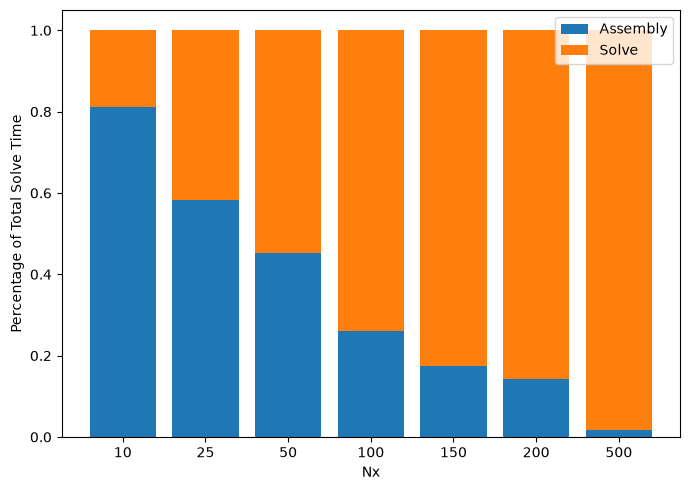
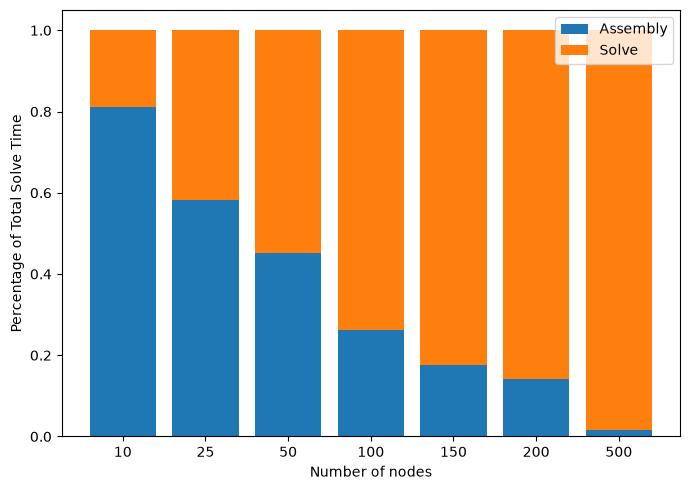
fixed a typo in an axis label

diff --git a/Scripts/profile_Processor.py b/Scripts/profile_Processor.py
@@ -62,7 +62,7 @@ ax2.bar(x, frac_asm, label="Assembly")
 ax2.bar(x, 1 - frac_asm, bottom=frac_asm, label="Solve")
 ax2.set_xticks(x)
 ax2.set_xticklabels(meshes)
-ax2.set_xlabel("Nx")
+ax2.set_xlabel("Number of nodes")
 ax2.set_ylabel("Percentage of Total Solve Time")
 ax2.legend()
 fig2.tight_layout()
